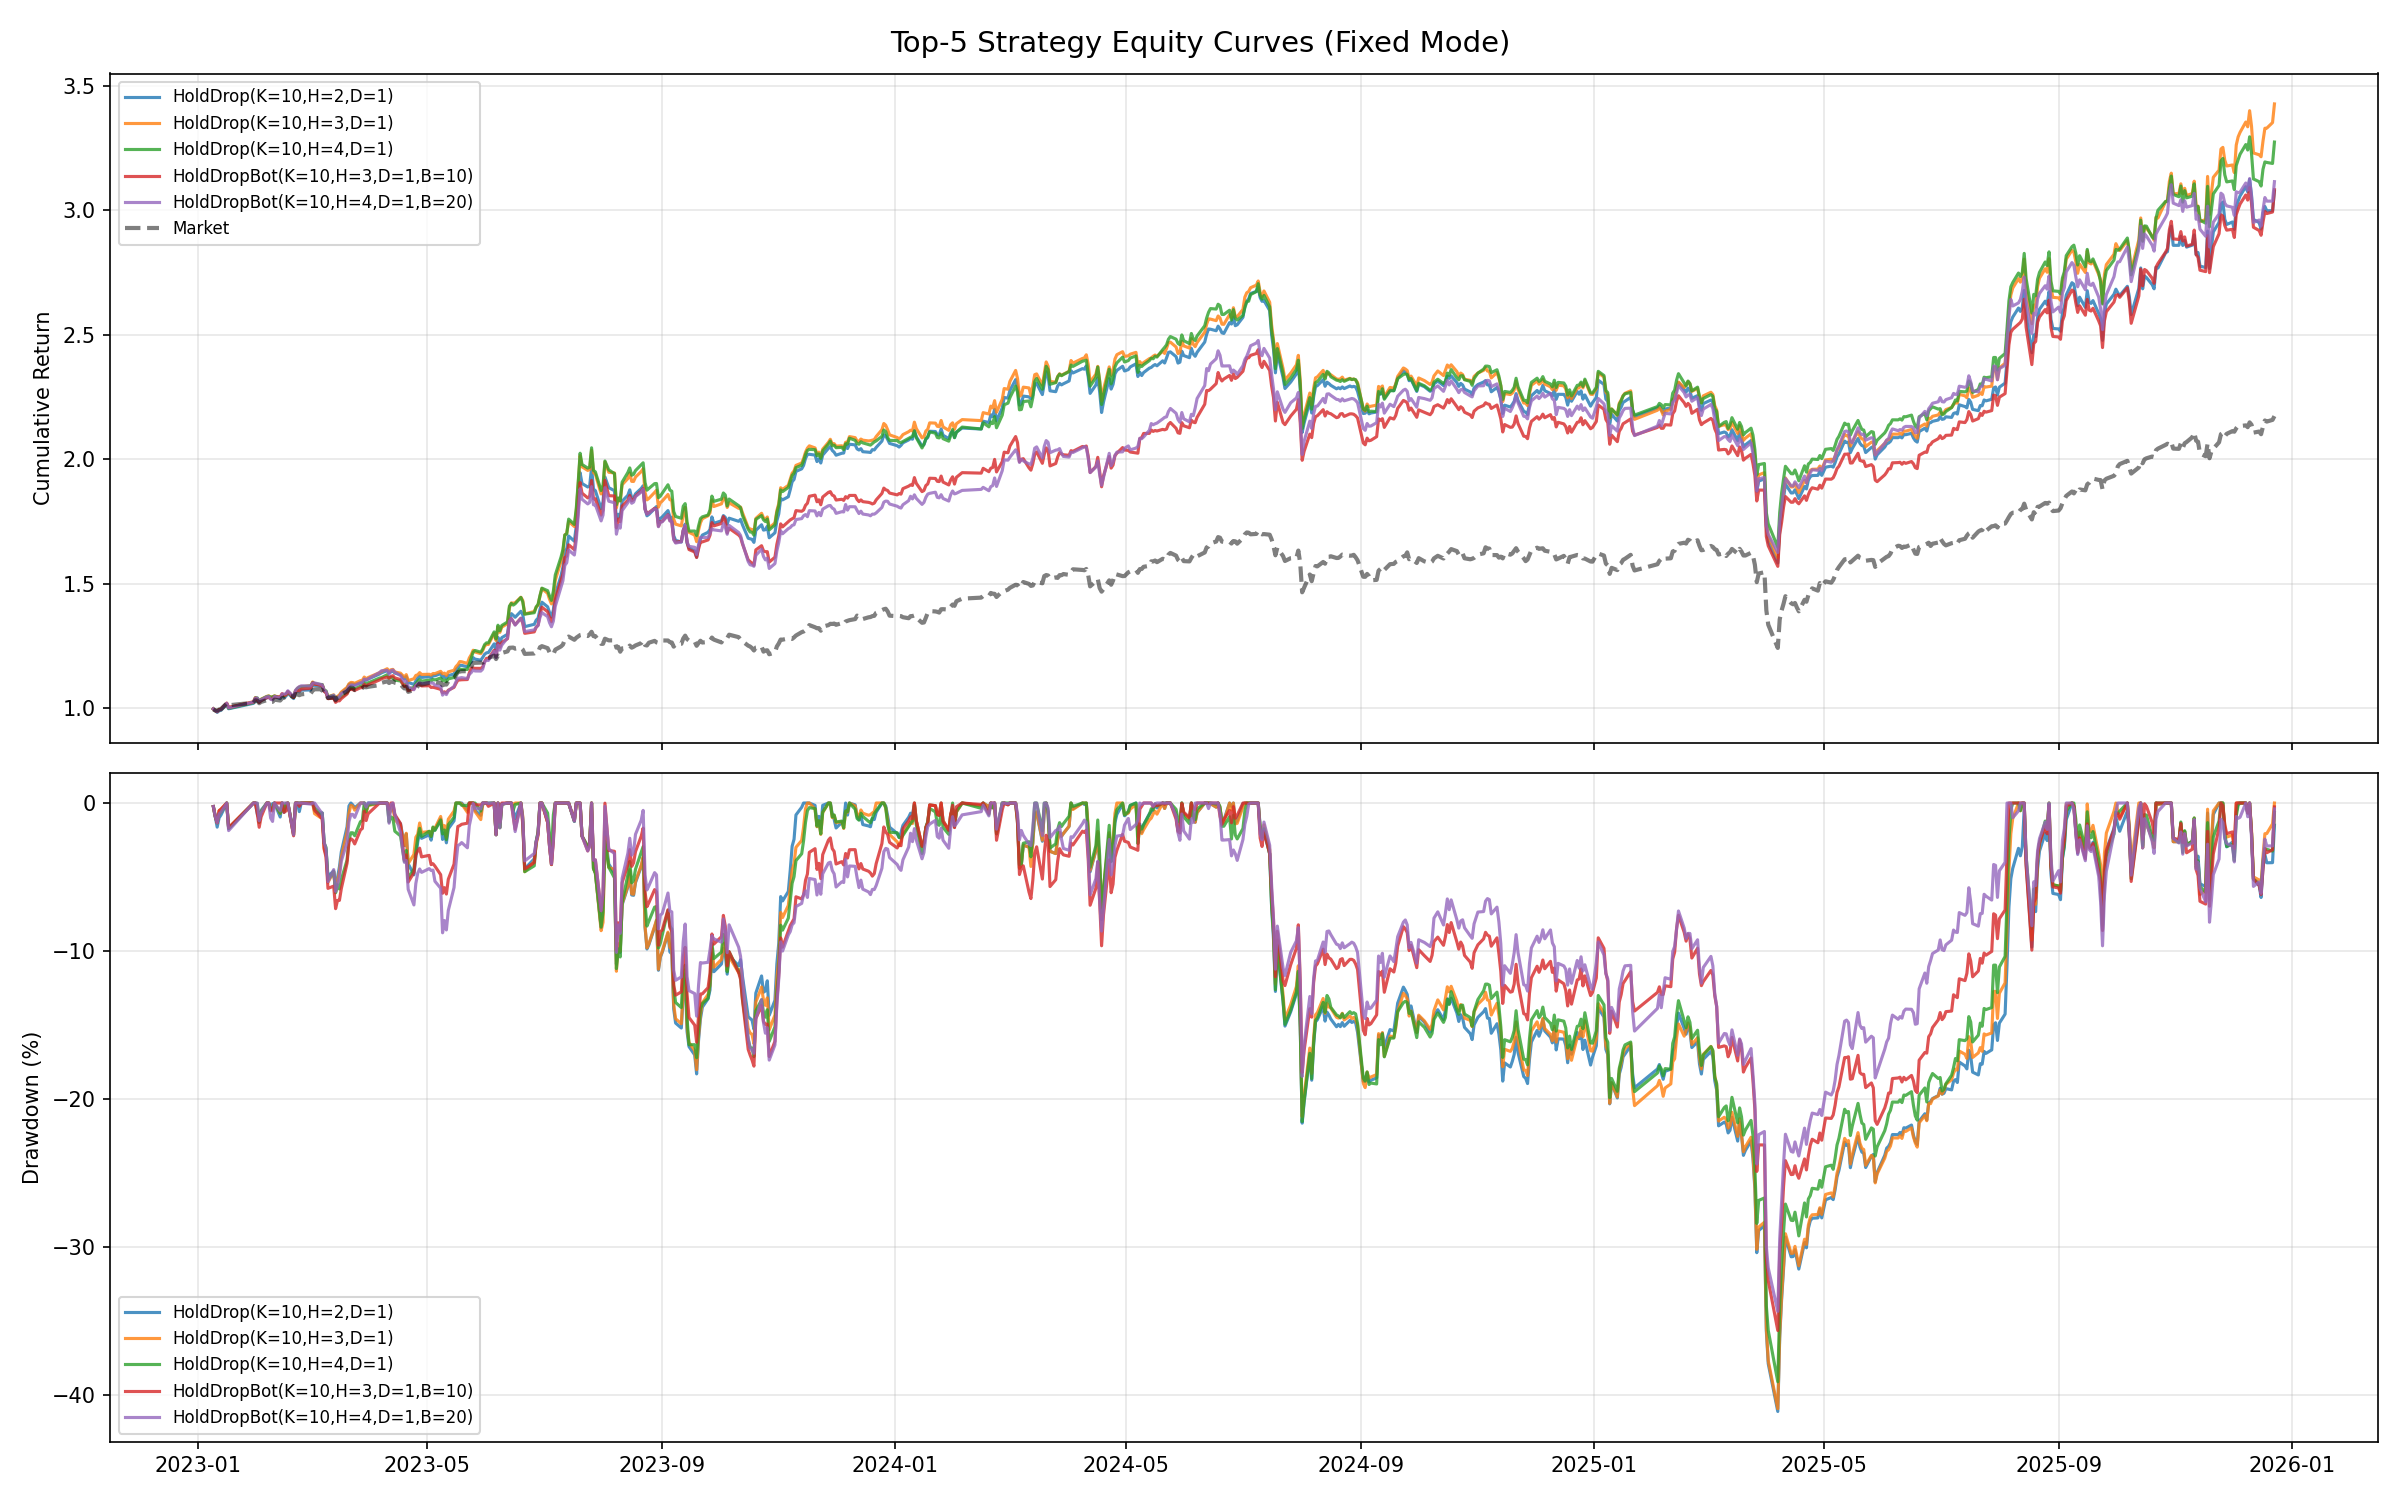
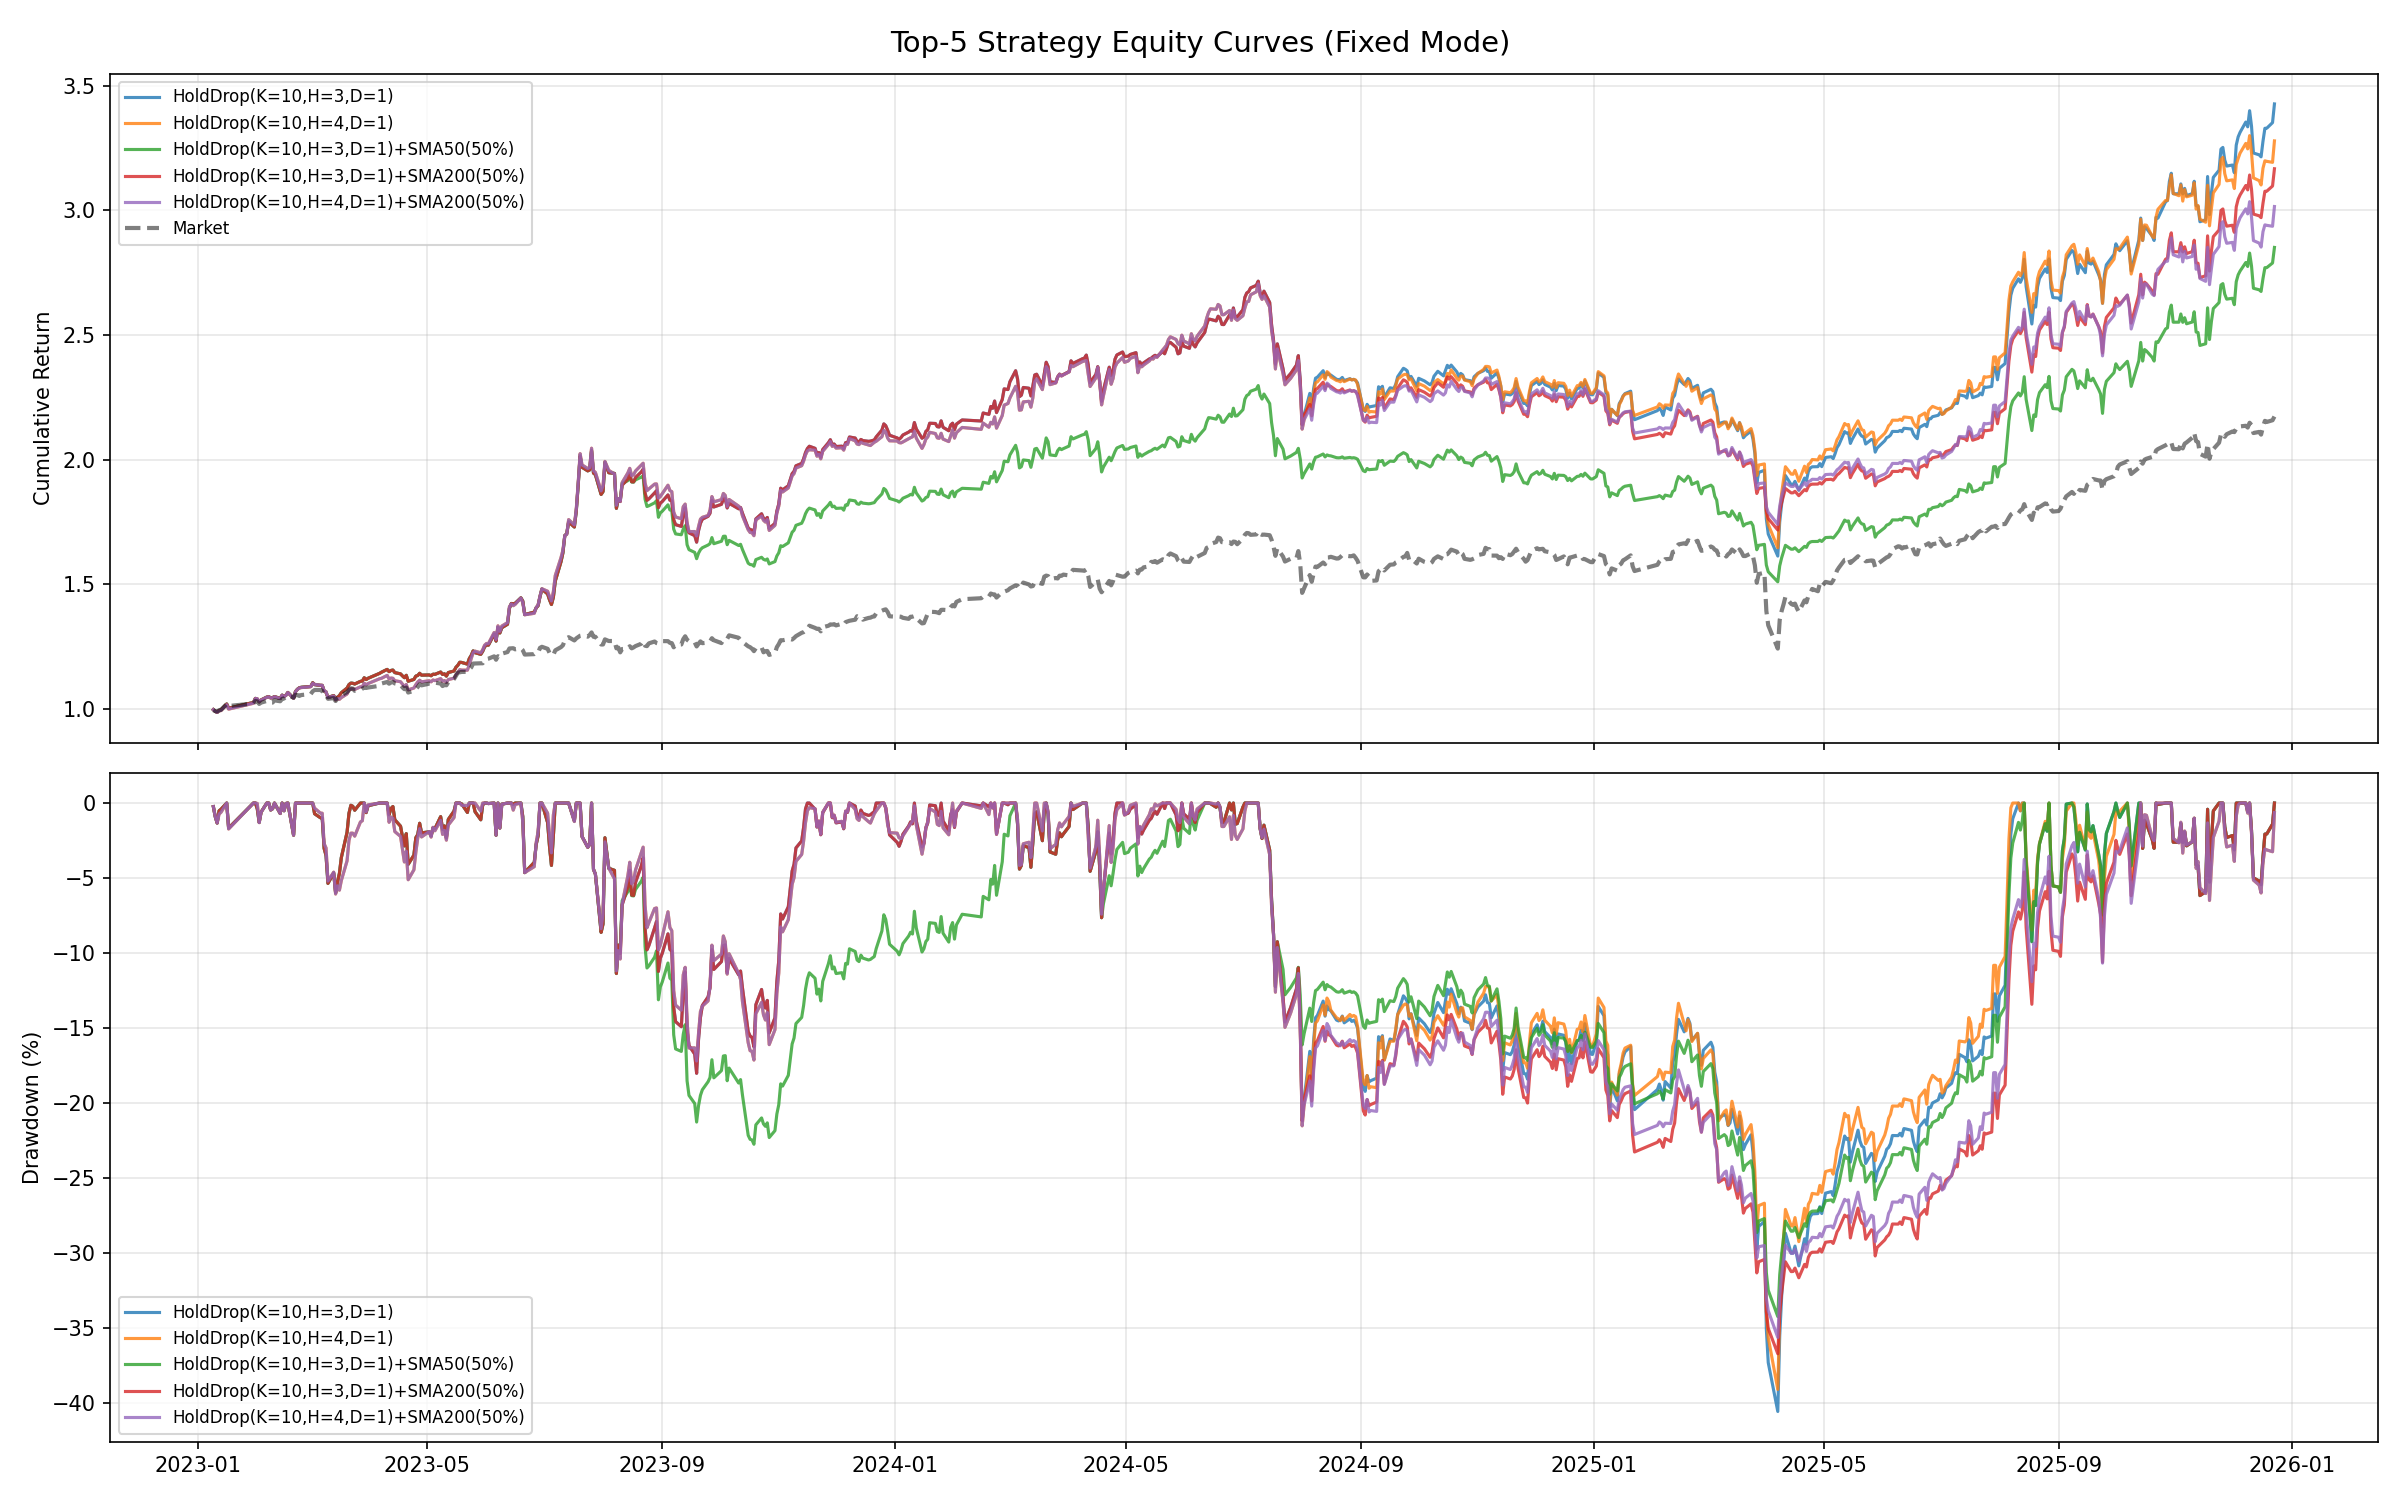
feat: add SMA hedging strategies and expand bottom stop-loss configs
Add HedgeConfig to simulate() for SMA-based cash allocation.
When market cumulative price falls below SMA, reduce position to
configured ratio (no lookahead: uses close price at decision date).

- 18 hedged variants: 3 base strategies × 6 SMA configs (50/100/200 × 0%/50%)
- 3 new HoldDropBot configs: B=5/40/50 for stop-loss sensitivity testing
- Best result: HoldDrop(10,3,1)+SMA200(50%) Sharpe=1.690 MaxDD=36.7%

diff --git a/scripts/evaluate_models.py b/scripts/evaluate_models.py
@@ -374,6 +374,12 @@ class StrategyResult:
     total_cost: float
 
 
+@dataclass
+class HedgeConfig:
+    sma_period: int
+    cash_ratio: float  # 0.0 = fully cash, 1.0 = fully invested
+
+
 class Strategy(ABC):
     @abstractmethod
     def name(self) -> str: ...
@@ -580,7 +586,8 @@ def build_strategies() -> list[Strategy]:
     ]:
         strategies.append(HoldDropStrategy(k, h, d))
     for k, h, d, b in [
-        (10, 3, 1, 10), (10, 3, 1, 20), (10, 3, 1, 30),
+        (10, 3, 1, 5), (10, 3, 1, 10), (10, 3, 1, 20), (10, 3, 1, 30),
+        (10, 3, 1, 40), (10, 3, 1, 50),
         (10, 4, 1, 10), (10, 4, 1, 20), (10, 4, 1, 30),
     ]:
         strategies.append(HoldDropBottomStrategy(k, h, d, b))
@@ -589,6 +596,24 @@ def build_strategies() -> list[Strategy]:
     for k in [10, 20]:
         strategies.append(ScoreWeightedStrategy(k))
     return strategies
+
+
+def build_hedged_strategies() -> list[tuple[Strategy, HedgeConfig]]:
+    base_strategies = [
+        HoldDropStrategy(10, 3, 1),
+        HoldDropStrategy(10, 4, 1),
+        TopKDropStrategy(10, 1),
+    ]
+    sma_configs = [
+        HedgeConfig(50, 0.0), HedgeConfig(50, 0.5),
+        HedgeConfig(100, 0.0), HedgeConfig(100, 0.5),
+        HedgeConfig(200, 0.0), HedgeConfig(200, 0.5),
+    ]
+    result = []
+    for s in base_strategies:
+        for hc in sma_configs:
+            result.append((s, hc))
+    return result
 
 
 # ══════════════════════════════════════════════════════════════
@@ -606,6 +631,7 @@ def simulate(
     daily_scores: dict[date, pd.Series],
     close_wide: pd.DataFrame,
     trading_days: list,
+    hedge_config: HedgeConfig | None = None,
 ) -> StrategyResult:
     day_to_idx = {d: i for i, d in enumerate(trading_days)}
     holdings: dict[str, int] = {}
@@ -615,6 +641,16 @@ def simulate(
     score_dates = sorted(daily_scores.keys())
     is_score_weighted = isinstance(strategy, ScoreWeightedStrategy)
     k = getattr(strategy, 'k', 10)
+
+    # Precompute market SMA for hedging (no lookahead: uses close up to each date)
+    market_cum = None
+    market_sma = None
+    if hedge_config:
+        market_daily = close_wide.pct_change(fill_method=None).mean(axis=1).fillna(0)
+        market_cum = (1 + market_daily).cumprod()
+        market_sma = market_cum.rolling(
+            hedge_config.sma_period, min_periods=hedge_config.sma_period,
+        ).mean()
 
     for pred_date in score_dates:
         if pred_date not in day_to_idx:
@@ -682,18 +718,34 @@ def simulate(
             day_cost += calc_trade_cost(FIXED_AMOUNT_PER_STOCK, is_sell=False)
         total_position = n_held * FIXED_AMOUNT_PER_STOCK if n_held > 0 else k * FIXED_AMOUNT_PER_STOCK
         cost_rate = day_cost / total_position if total_position > 0 else 0
+
+        # Apply SMA hedging: scale returns by invest_ratio
+        invest_ratio = 1.0
+        if hedge_config and market_cum is not None and market_sma is not None:
+            hedge_date = trading_days[idx]
+            if hedge_date in market_cum.index and hedge_date in market_sma.index:
+                cum_val = market_cum[hedge_date]
+                sma_val = market_sma[hedge_date]
+                if pd.notna(sma_val) and cum_val < sma_val:
+                    invest_ratio = hedge_config.cash_ratio
+
+        gross_return = gross_return * invest_ratio
+        cost_rate = cost_rate * invest_ratio
         net_return = gross_return - cost_rate
 
-        total_cost += day_cost
+        total_cost += day_cost * invest_ratio
         turnover = (n_sell + n_buy) / (2 * n_held) if n_held > 0 else 0
 
         records.append(DailyRecord(
             dt=pred_date, gross_return=gross_return, net_return=net_return,
-            market_return=market_return, cost=day_cost, turnover=turnover,
+            market_return=market_return, cost=day_cost * invest_ratio, turnover=turnover,
             n_holdings=n_held, n_buy=n_buy, n_sell=n_sell,
         ))
 
-    return StrategyResult(name=strategy.name(), records=records, total_cost=total_cost)
+    strat_name = strategy.name()
+    if hedge_config:
+        strat_name += f"+SMA{hedge_config.sma_period}({int(hedge_config.cash_ratio * 100)}%)"
+    return StrategyResult(name=strat_name, records=records, total_cost=total_cost)
 
 
 # ══════════════════════════════════════════════════════════════
@@ -1784,15 +1836,27 @@ def main():
     # 4. 策略回測
     print("\n[4/7] Running strategy backtests...")
     strategies = build_strategies()
+    hedged_strategies = build_hedged_strategies()
+    total_count = len(strategies) + len(hedged_strategies)
     all_results: list[StrategyResult] = []
     all_metrics: list[Metrics] = []
 
     for i, strategy in enumerate(strategies):
-        if (i + 1) % 5 == 0:
-            print(f"  [{i+1}/{len(strategies)}] {strategy.name()}...")
+        if (i + 1) % 10 == 0:
+            print(f"  [{i+1}/{total_count}] {strategy.name()}...")
         result = simulate(strategy, daily_scores, close_wide, trading_days)
         all_results.append(result)
         all_metrics.append(compute_metrics(result))
+
+    for i, (strategy, hc) in enumerate(hedged_strategies):
+        idx = len(strategies) + i + 1
+        if idx % 10 == 0:
+            print(f"  [{idx}/{total_count}] {strategy.name()}+SMA{hc.sma_period}...")
+        result = simulate(strategy, daily_scores, close_wide, trading_days, hedge_config=hc)
+        all_results.append(result)
+        all_metrics.append(compute_metrics(result))
+
+    print(f"  Total: {total_count} strategies ({len(strategies)} base + {len(hedged_strategies)} hedged)")
 
     # 找最佳策略
     best_m = max(

diff --git a/scripts/output/949b4446/report.md b/scripts/output/949b4446/report.md
@@ -1,8 +1,8 @@
 # Model Evaluation Report
 
-**Run**: `949b4446` | **Generated**: 2026-02-24 23:43
+**Run**: `949b4446` | **Generated**: 2026-02-25 04:56
 **Config**: label=`Ref($close, -3) / Ref($close, -1) - 1`, factors=303, range=2023W01~2025W51
-**Runtime**: 136.9s
+**Runtime**: 174.2s
 
 ## Executive Summary
 
@@ -10,7 +10,7 @@
 - **最佳 horizon**: 5-day (IC=0.0200)
 - **IC 穩定性**: ICIR=0.06, IC>0=53.7%
 - **分數區分度**: Top-K overlap=51.0%, tau=0.494
-- **最佳策略**: HoldDrop(K=10,H=3,D=1) (excess=+22.6%, sharpe=1.695, win=51.2%)
+- **最佳策略**: HoldDrop(K=10,H=3,D=1) (excess=+22.6%, sharpe=1.694, win=51.0%)
 - **過擬合**: Valid IC=0.0376 → Backtest IC=0.0108 (衰減 71%)
 - **預測分散度**: Top-Bot gap/std=3.50
 
@@ -62,8 +62,8 @@
 | Regime | Days | Mean IC | Excess (bps) | Win% |
 |--------|------|---------|-------------|------|
 | bull | 311 | -0.0002 | 1.6 | 50.2% |
-| sideways | 260 | 0.0146 | 13.5 | 49.2% |
-| bear | 116 | 0.0354 | 8.4 | 56.9% |
+| sideways | 260 | 0.0146 | 13.4 | 49.2% |
+| bear | 116 | 0.0354 | 8.9 | 56.0% |
 
 Regime transitions: 88
 
@@ -77,7 +77,7 @@ Strategy: HoldDrop(K=10,H=3,D=1)
 |------|------|------|------|------|------|------|------|------|------|------|------|------|
 | 2023 | 11.9 | 10.8 | 2.2 | 1.9 | 3.6 | 64.9 | 110.1 | -9.0 | -5.2 | 7.3 | 31.6 | -3.0 |
 | 2024 | -4.1 | 15.6 | -6.4 | 18.5 | -9.5 | 2.2 | -25.0 | -5.1 | 1.0 | 1.9 | -15.8 | 5.8 |
-| 2025 | -14.0 | -4.5 | -42.4 | 21.1 | -10.0 | 7.2 | 12.4 | 48.5 | -4.7 | 15.7 | 5.2 | 26.0 |
+| 2025 | -14.0 | -1.3 | -42.4 | 21.1 | -10.0 | 4.5 | 12.4 | 48.5 | -4.7 | 15.7 | 5.2 | 26.0 |
 
 ---
 
@@ -87,7 +87,7 @@ Strategy: HoldDrop(K=10,H=3,D=1)
 |------|---------|--------|------|--------|------|
 | 2023 | +80.0 | 2.96 | 54.5 | 18.0 | 235.0 |
 | 2024 | -8.4 | 0.45 | 47.9 | 21.2 | 242.0 |
-| 2025 | +15.9 | 1.54 | 51.3 | 31.7 | 238.0 |
+| 2025 | +15.9 | 1.54 | 50.8 | 31.3 | 238.0 |
 
 ---
 
@@ -95,7 +95,7 @@ Strategy: HoldDrop(K=10,H=3,D=1)
 
 | # | Start | Trough | End | Depth% | Duration |
 |---|-------|--------|-----|--------|----------|
-| 1 | 2024-07-09 | 2025-04-07 | 2025-08-11 | 40.9 | 398d |
+| 1 | 2024-07-09 | 2025-04-07 | 2025-08-11 | 40.6 | 398d |
 | 2 | 2023-07-26 | 2023-09-19 | 2023-11-16 | 18.0 | 113d |
 | 3 | 2025-08-14 | 2025-08-18 | 2025-08-27 | 9.3 | 13d |
 | 4 | 2024-04-10 | 2024-04-18 | 2024-04-26 | 7.7 | 16d |
@@ -136,16 +136,16 @@ Total unique models: 153
 
 | Strategy | Excess% | Sharpe | MaxDD% | Win% | Turn% | IR | t-stat |
 |----------|---------|--------|--------|------|-------|-----|--------|
-| HoldDrop(K=10,H=3,D=1) | +22.6 | 1.695 | 40.9 | 51.2 | 9.9 | 1.07 | 1.81 |
-| HoldDrop(K=10,H=4,D=1) | +20.2 | 1.651 | 39.1 | 51.6 | 9.9 | 0.99 | 1.67 |
+| HoldDrop(K=10,H=3,D=1) | +22.6 | 1.694 | 40.6 | 51.0 | 9.9 | 1.07 | 1.81 |
+| HoldDrop(K=10,H=3,D=1)+SMA200(50%) | +18.5 | 1.690 | 36.7 | 49.0 | 9.9 | 0.84 | 1.43 |
+| HoldDrop(K=10,H=4,D=1) | +20.3 | 1.653 | 39.1 | 51.6 | 9.9 | 0.99 | 1.67 |
+| HoldDrop(K=10,H=4,D=1)+SMA200(50%) | +15.9 | 1.638 | 35.6 | 50.2 | 9.9 | 0.75 | 1.27 |
+| HoldDrop(K=10,H=3,D=1)+SMA50(50%) | +13.1 | 1.632 | 34.3 | 47.8 | 9.9 | 0.62 | 1.05 |
+| HoldDrop(K=10,H=3,D=1)+SMA200(0%) | +13.9 | 1.603 | 35.5 | 49.1 | 9.9 | 0.58 | 0.98 |
 | HoldDropBot(K=10,H=4,D=1,B=20) | +17.6 | 1.596 | 34.4 | 52.0 | 14.1 | 0.88 | 1.48 |
+| HoldDrop(K=10,H=4,D=1)+SMA50(50%) | +11.1 | 1.593 | 33.2 | 49.4 | 9.9 | 0.55 | 0.92 |
+| HoldDrop(K=10,H=3,D=1)+SMA100(50%) | +13.4 | 1.591 | 40.5 | 47.4 | 9.9 | 0.65 | 1.10 |
 | HoldDrop(K=10,H=2,D=1) | +17.0 | 1.581 | 41.1 | 50.3 | 10.0 | 0.86 | 1.46 |
-| HoldDropBot(K=10,H=3,D=1,B=10) | +17.1 | 1.578 | 35.7 | 51.5 | 12.0 | 0.85 | 1.43 |
-| TopKDrop(K=10,D=1) | +16.7 | 1.567 | 38.8 | 49.7 | 10.0 | 0.85 | 1.44 |
-| HoldDropBot(K=10,H=3,D=1,B=30) | +15.5 | 1.562 | 36.1 | 50.1 | 16.7 | 0.81 | 1.37 |
-| HoldDrop(K=10,H=5,D=1) | +15.9 | 1.550 | 40.3 | 50.5 | 9.8 | 0.81 | 1.37 |
-| ThresholdExit(K=10,M=50) | +13.2 | 1.524 | 40.7 | 51.2 | 14.0 | 0.72 | 1.22 |
-| HoldDropBot(K=10,H=3,D=1,B=20) | +13.8 | 1.504 | 37.3 | 51.0 | 14.3 | 0.72 | 1.22 |
 
 ---
 
